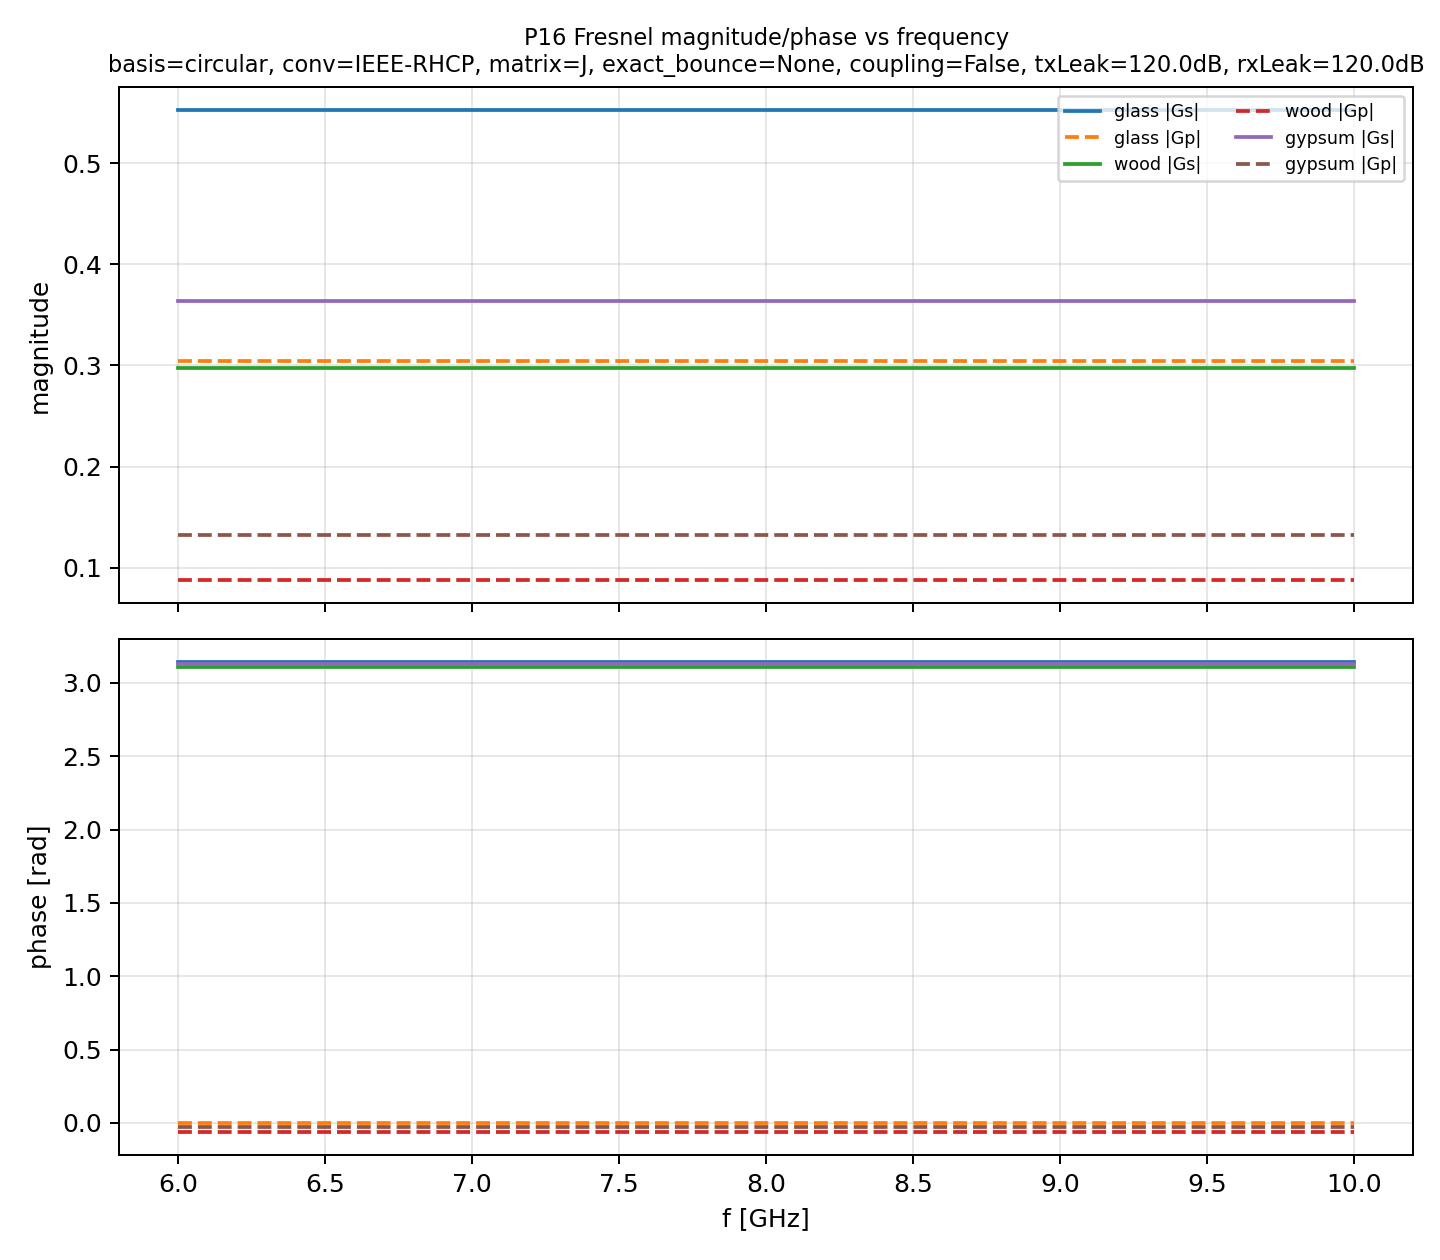
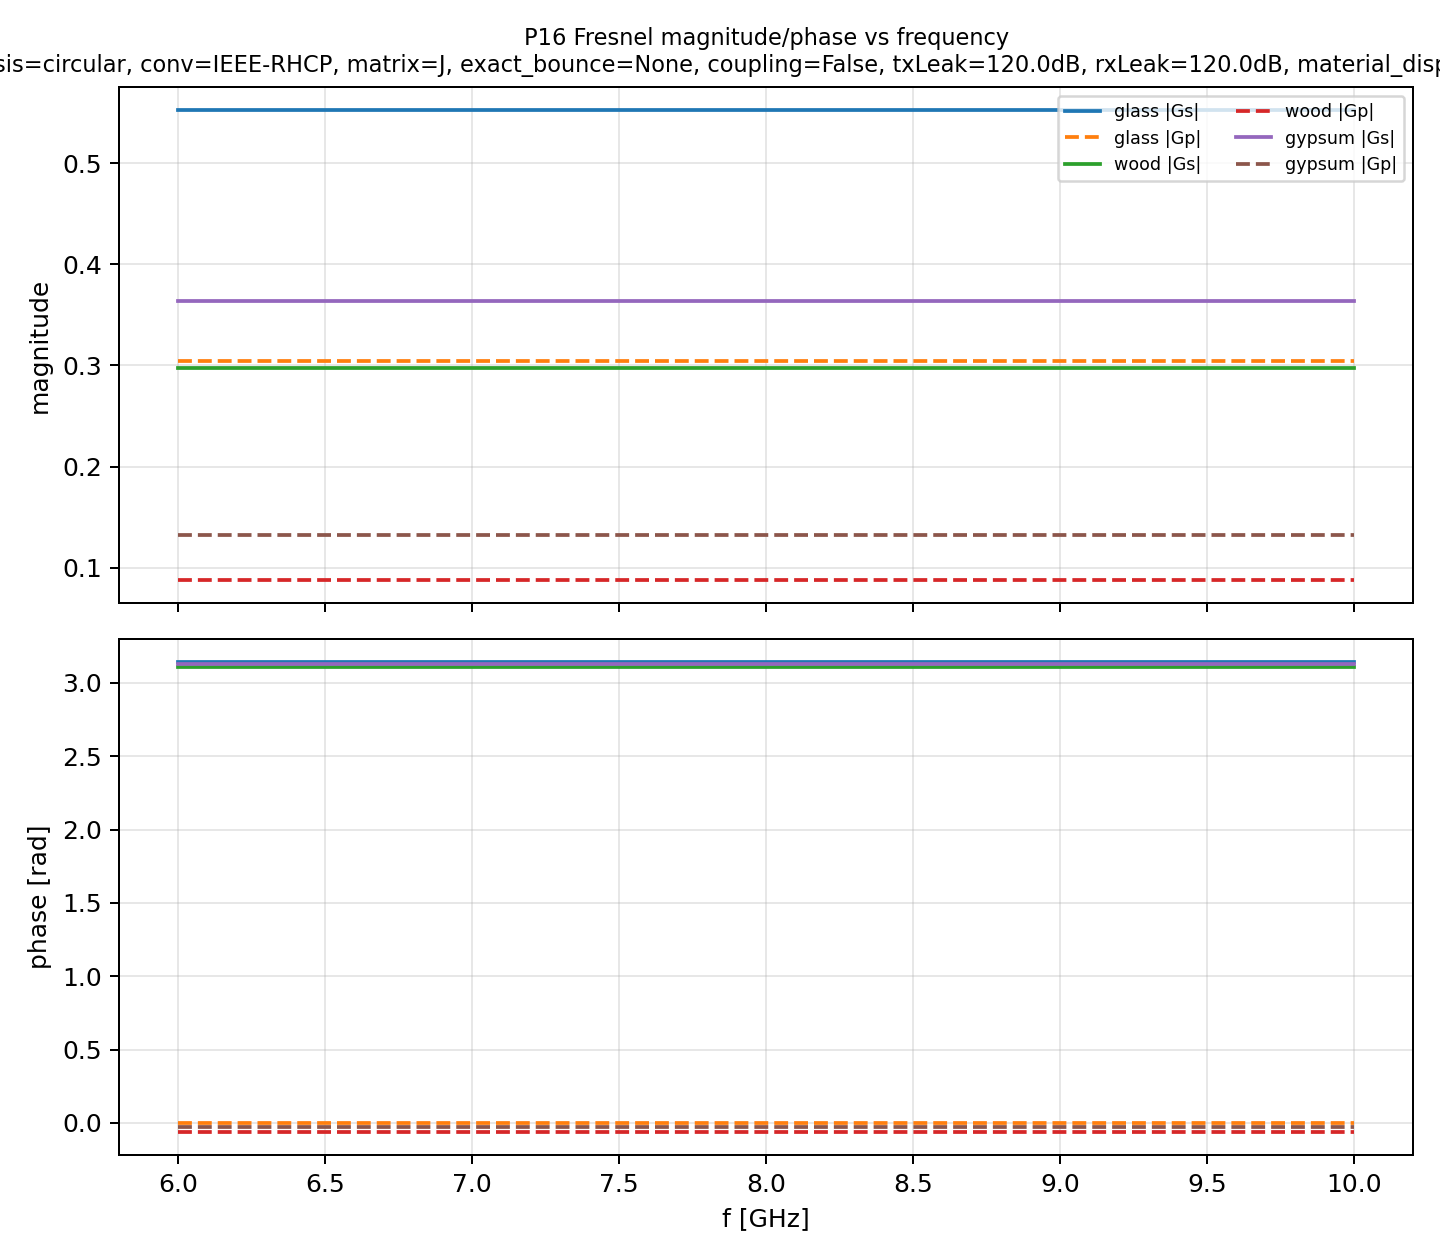
Refresh canonical release artifacts after clean rerun

Changed region(s): [[0.0, 0.031, 1.0, 0.0619]]

diff --git a/outputs/report_canonical_release.md b/outputs/report_canonical_release.md
@@ -2,7 +2,7 @@
 
 - basis: circular
 - convention: IEEE-RHCP
-- git_commit: cfc0aa8c51aee2384442af32e3dc66a0f9fbc717
+- git_commit: 6885350de3193fb339a6cd1387339b14c93d8179
 - git_dirty: False
 - release_mode: True
 - cmdline: /Users/kimmyoungsun/Documents/codex/scenarios/runner.py --basis circular --xpd-matrix-source J --physics-validation-mode --release-mode --model-compare --output outputs/rt_dataset_canonical_release.h5 --plots-dir outputs/plots_canonical_release --report outputs/report_canonical_release.md --nf 1024
@@ -11,6 +11,13 @@
 - xpd_matrix_source: J
 - exact_bounce_defaults: {'A2': 1, 'A2R': 1, 'A3': 2, 'A3R': 2, 'A4': 1}
 - report_exact_bounce_applied: True (scenario-specific default map)
+- material_dispersion: off
+- materials_db_path: 
+- materials_db_hash: 
+- max_bounce_override: None
+- diffuse_config: {'diffuse_enabled': False, 'diffuse_model': 'lambertian', 'diffuse_factor': 0.0, 'diffuse_lobe_alpha': 8.0, 'diffuse_rays_per_hit': 0, 'diffuse_seed': 0, 'min_path_power_db': None, 'max_paths_per_case': None}
+- rich_mode: False
+- scenario_ids: ['C0', 'A1', 'A2', 'A2R', 'A3', 'A3R', 'A4', 'A5', 'A6', 'B0']
 - antenna_config: {'convention': 'IEEE-RHCP', 'tx_cross_pol_leakage_db': 120.0, 'rx_cross_pol_leakage_db': 120.0, 'tx_axial_ratio_db': 0.0, 'rx_axial_ratio_db': 0.0, 'enable_coupling': False}
 - physics_validation_mode: True
 - predicted_leakage_floor_db: 300.000 (eps_tx=0.00000, eps_rx=0.00000)
@@ -19,7 +26,7 @@
 ## Reproducibility & Provenance
 
 - schema_version: v2
-- git_commit: cfc0aa8c51aee2384442af32e3dc66a0f9fbc717
+- git_commit: 6885350de3193fb339a6cd1387339b14c93d8179
 - git_dirty: False
 - release_mode: True
 - cmdline: /Users/kimmyoungsun/Documents/codex/scenarios/runner.py --basis circular --xpd-matrix-source J --physics-validation-mode --release-mode --model-compare --output outputs/rt_dataset_canonical_release.h5 --plots-dir outputs/plots_canonical_release --report outputs/report_canonical_release.md --nf 1024
@@ -29,6 +36,13 @@
 - xpd_matrix_source: J
 - exact_bounce_defaults: {'A2': 1, 'A2R': 1, 'A3': 2, 'A3R': 2, 'A4': 1}
 - exact_bounce_applied: True
+- material_dispersion: off
+- materials_db_path: 
+- materials_db_hash: 
+- max_bounce_override: None
+- diffuse_config: {'diffuse_enabled': False, 'diffuse_model': 'lambertian', 'diffuse_factor': 0.0, 'diffuse_lobe_alpha': 8.0, 'diffuse_rays_per_hit': 0, 'diffuse_seed': 0, 'min_path_power_db': None, 'max_paths_per_case': None}
+- rich_mode: False
+- scenario_ids: ['C0', 'A1', 'A2', 'A2R', 'A3', 'A3R', 'A4', 'A5', 'A6', 'B0']
 - antenna_config: {'convention': 'IEEE-RHCP', 'tx_cross_pol_leakage_db': 120.0, 'rx_cross_pol_leakage_db': 120.0, 'tx_axial_ratio_db': 0.0, 'rx_axial_ratio_db': 0.0, 'enable_coupling': False}
 - physics_validation_mode: True
 - meta_roundtrip: True
@@ -1276,6 +1290,8 @@
 - hard_gates: {'A_git_clean_check': True, 'B_geometry_invariants': True, 'C10_full_coverage': True, 'D_wrap_zero': True, 'F3_model_compare': True}
 - hard_fail: []
 - hard_fail_count: 0
+- rich_mode: False
+- rich_multipath_gate: True
 - geometry_invariants: {'total_paths': 706, 'bad_bounce_count': 0, 'bad_interactions_len': 0, 'bad_surface_ids_len': 0, 'bad_incidence_angles_len': 0, 'bad_segment_basis_len': 0, 'bad_aod_shape': 0, 'bad_aoa_shape': 0, 'bad_tau': 0, 'bad_matrix_shape': 0, 'bad_matrix_nan': 0, 'violations_total': 0, 'pass': True}
 - wrap_detected_cases_total: 0
-- HARD_GATE_SUMMARY_JSON: {"geometry_stats": {"bad_aoa_shape": 0, "bad_aod_shape": 0, "bad_bounce_count": 0, "bad_incidence_angles_len": 0, "bad_interactions_len": 0, "bad_matrix_nan": 0, "bad_matrix_shape": 0, "bad_segment_basis_len": 0, "bad_surface_ids_len": 0, "bad_tau": 0, "pass": true, "total_paths": 706, "violations_total": 0}, "hard_fail": [], "hard_fail_count": 0, "hard_gates": {"A_git_clean_check": true, "B_geometry_invariants": true, "C10_full_coverage": true, "D_wrap_zero": true, "F3_model_compare": true}, "release_mode": true, "wrap_detected_cases_total": 0}
+- HARD_GATE_SUMMARY_JSON: {"geometry_stats": {"bad_aoa_shape": 0, "bad_aod_shape": 0, "bad_bounce_count": 0, "bad_incidence_angles_len": 0, "bad_interactions_len": 0, "bad_matrix_nan": 0, "bad_matrix_shape": 0, "bad_segment_basis_len": 0, "bad_surface_ids_len": 0, "bad_tau": 0, "pass": true, "total_paths": 706, "violations_total": 0}, "hard_fail": [], "hard_fail_count": 0, "hard_gates": {"A_git_clean_check": true, "B_geometry_invariants": true, "C10_full_coverage": true, "D_wrap_zero": true, "F3_model_compare": true}, "release_mode": true, "rich_avg_paths_per_case": {"A1": 1.0, "A2": 1.0, "A2R": 0.875, "A3": 1.0, "A3R": 1.0, "A4": 1.0, "A5": 1.0, "A6": 1.5, "B0": 24.12, "C0": 1.0}, "rich_mode": false, "rich_multipath_gate": true, "wrap_detected_cases_total": 0}
